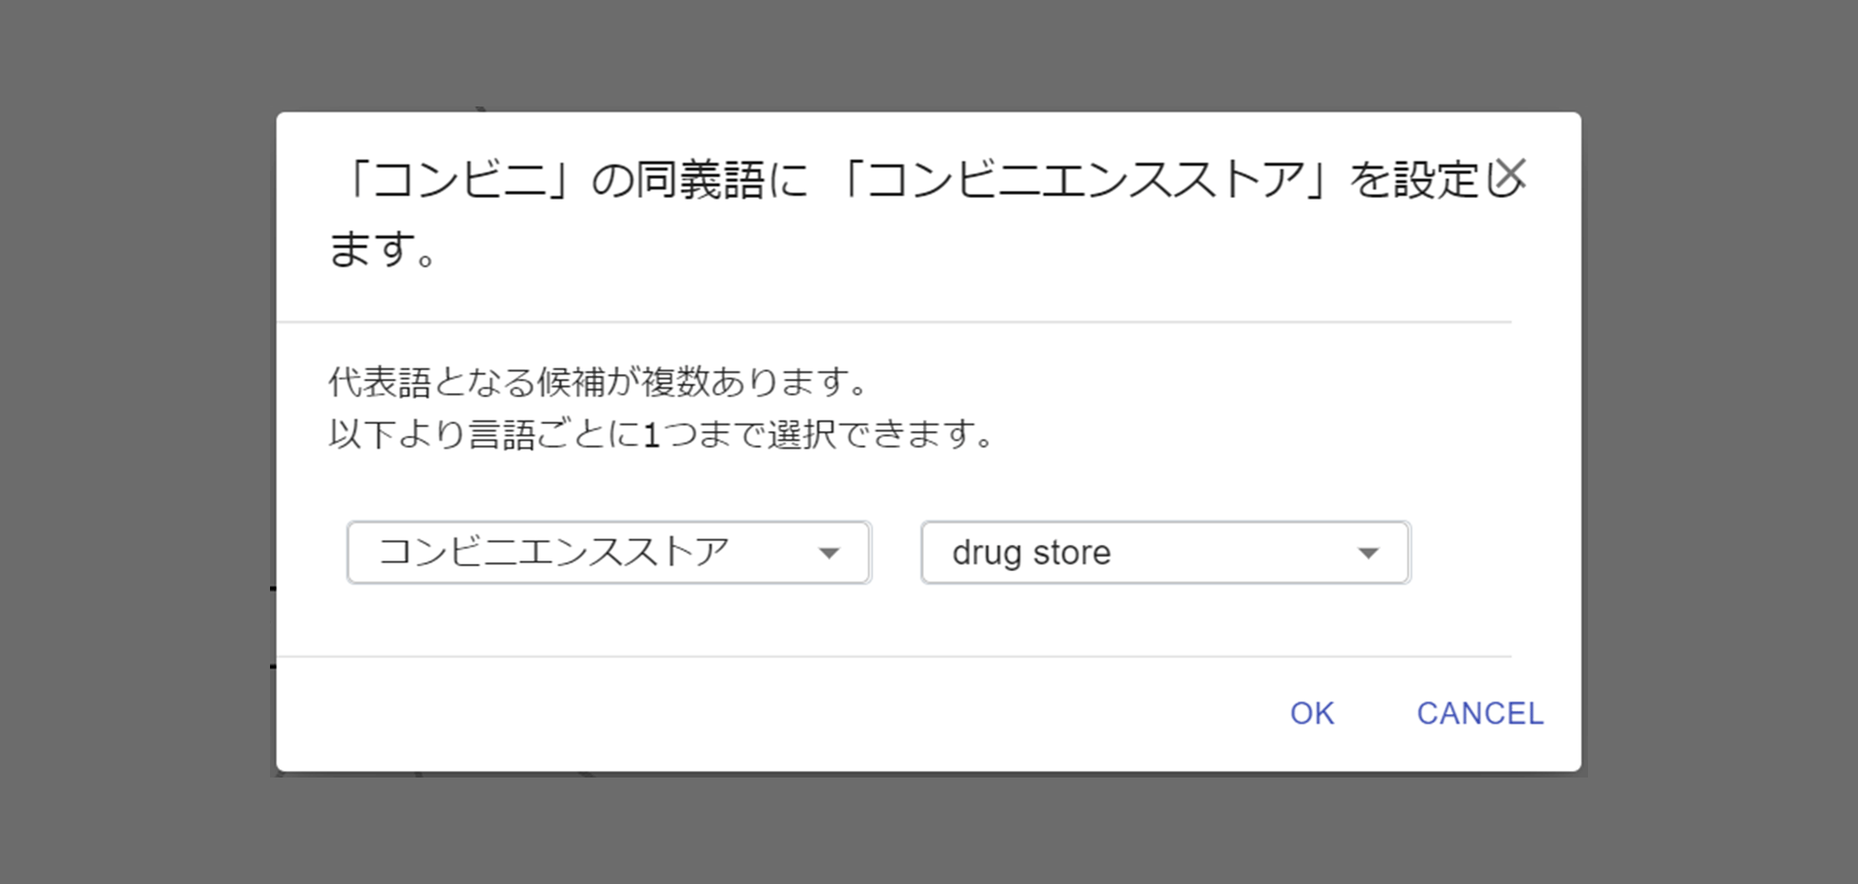
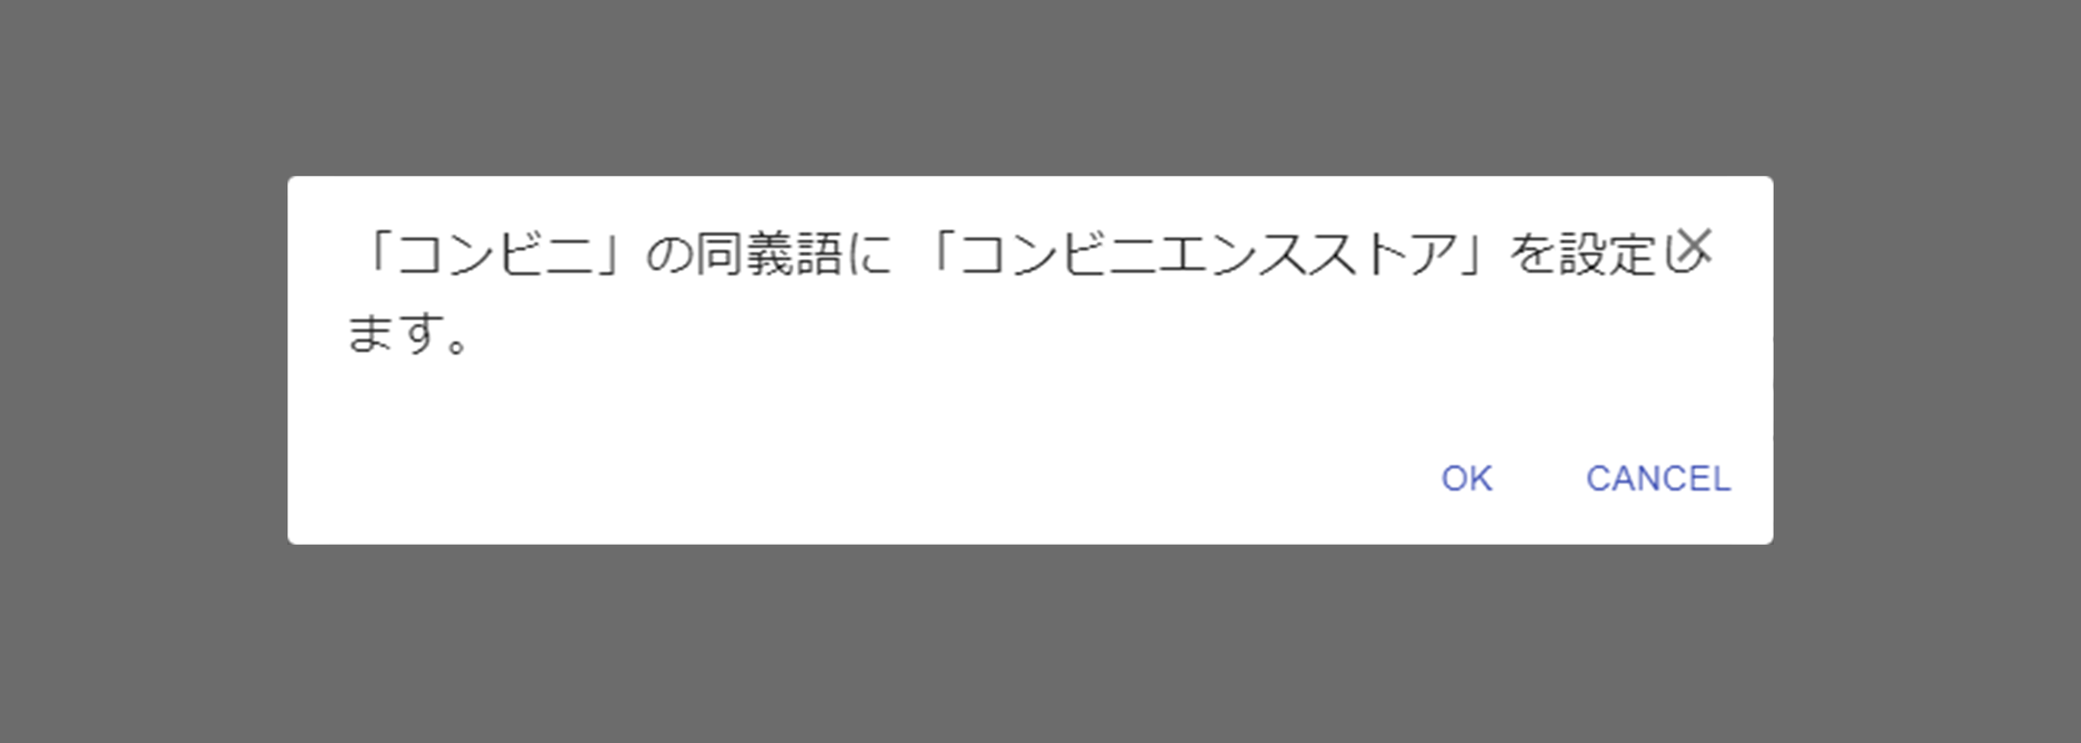
docs update

Changed region(s): [[0.1244, 0.1244, 0.8711, 0.9022], [0.4667, 0.56, 0.84, 0.6844], [0.1867, 0.56, 0.4667, 0.6844]]

diff --git a/docs/help.html b/docs/help.html
@@ -26,7 +26,7 @@
       <dd><a href="#Section08">編集パネル</a></dd>
       <dd><a href="#Section06">関係線を使う</a></dd>
       <dd><a href="#Section11">用語の追加と削除</a></dd>
-      <dd><a href="#Section21">他語彙体系の同義語の追加と削除</a></dd>
+      <dd><a href="#Section21">他語彙体系の同義語のURIの編集</a></dd>
       <dt>いろいろな機能</dt>
       <dd><a href="#Section09">枠線色の変更</a></dd>
       <dd><a href="#Section10">確定について</a></dd>
@@ -39,8 +39,8 @@
     <h1>ファイルの読み込み</h1>
     <p>入力可能なデータは以下の3種類です。</p>
     <ul class="Emp Descr">
-      <li>編集用語彙_meta<br><span class="descr">（csv形式 UTF-8 BOM付き）<br>語彙のメタファイル。</span></li>
       <li>編集用語彙<br><span class="descr">（csv形式 UTF-8 BOM付き）<br>用語の同義関係や上下関係を編集中のデータ。</span></li>
+      <li>編集用語彙_meta<br><span class="descr">（csv形式 UTF-8 BOM付き）<br>語彙のメタファイル。</span></li>
       <li>参照用語彙<br><span class="descr">（csv形式 UTF-8 BOM付き）<br>既存の語彙情報を表形式にまとめたデータ。編集することはできません。<br>参照専用のデータです。3つまでファイルを読み込むことが可能です。</span></li>
     </ul>
     <p id="illst4-1"><span class="Emp">画面の左上のメニュー「ファイル」→「開く」をクリックすると、ファイルの読み込みダイアログが表示されます。</span><img src="images/help_illst4-1.png"></p>
@@ -60,7 +60,7 @@
       <li>CSV（語彙基本情報）<span class="descr">（csv形式 UTF-8 BOM付き）</span></li>
       <li>RDF<span class="descr">（n3, nquads, nt, trix, turtle, xml, jsonld形式）：公開する統制語彙。</span></li>
     </ul>
-    <p>左上の「ファイル」→「保存」→「編集用語彙」「編集用語彙_meta」または「統制語彙」をクリックします。ファイル出力ダイアログが表示されるので、任意のファイル名を入力し、「OK」をクリックすると、ファイルがローカル環境にダウンロードされます。</p>
+    <p>左上の「ファイル」→「保存」→「CSV（用語一覧）」「CSV（語彙基本情報）」または「RDF」をクリックします。ファイル出力ダイアログが表示されるので、任意のファイル名を入力し、「OK」をクリックすると、ファイルがローカル環境にダウンロード・保存されます。</p>
     <div class="Img margin0">
       <figure><img src="images/help_illst5.png"></figure>
     </div>
@@ -68,12 +68,14 @@
 
   <div id="Section07" class="section">
     <h1>用語の選択方法</h1>
-    <p>登録されている用語の選択方法は次の２つです。</p>
+    <p>登録されている用語の選択方法は次のとおりです。</p>
     <ol class="Emp Descr">
       <li>可視化画面で用語をクリックする<br><span class="descr">可視化画面で用語が選択されると枠線が太くなって、強調表示されます。</span></li>
+      <li>検索ボックスをクリックすると表示される一覧から選択する</li>
       <li>検索ボックスで検索する<br><span class="descr">検索ボックスに用語名を入力して検索します。目的の用語が見つかると画面の中央に表示されます。</span></li>
+      <li>編集パネル内のプルダウンから目的の用語を選択する<br><span class="descr">無作為に用語をクリック（選択）して、画面右上の「編集」ボタンを押すと編集パネルが表示されます。開かれた編集パネル内の用語名のプルダウンから目的の用語を選択します。</span></li>
     </ol>
-    <p class="Emp">用語を選択して画面右上の編集ボタンをクリックすると編集パネルが開きます。<br><span class="red">選択中の用語をクリックするか、選択全解除ボタンもしくは可視化画面の背景をクリックすると選択が解除されます。</span></p>
+    <p class="Emp"><span class="red">選択中の用語をクリックするか、選択全解除ボタンを押す、もしくは可視化画面の背景部分をクリックすると選択が解除されます。</span></p>
     <div class="Img margin0">
       <figure><img src="images/help_illst7.png"></figure>
     </div>
@@ -83,50 +85,76 @@
     <h1>編集パネル</h1>
     <p>用語を選択し「編集」ボタンを押すと、編集パネルが開きます。編集パネルでは、同義語・代表語・上位語の編集や、IDを編集して代表語のURIを変更したり、用語の説明を編集することもできます。</p>
     <div id="HensyuPanel" >
+      <div class="Img">
+        <p style="top: 0.5%; left: 82.5%;">1</p>
+        <p style="top: 9.2%; left: 1%;">2</p>
+        <p style="top: 15%; left: 17%;">3</p>
+        <p style="top: 20.5%; left: -1.5%;">4</p>
+        <p style="top: 20.5%; left: 43%;">5</p>
+        <p style="top: 29%; left: -1.5%;">6</p>
+        <p style="top: 37.3%; left: -1.5%;">7</p>
+        <p style="top: 47%; left: -1.5%;">8</p>
+        <p style="top: 54.5%; left: -1.5%;">9</p>
+        <p style="top: 62.5%; left: -1.5%;">10</p>
+        <p style="top: 71.5%; left: -1.5%;">11</p>
+        <p style="top: 82%; left: -1.5%;">12</p>
+        <p style="top: 93%; left: 40%;">13</p>
+        <figure><img src="images/help_illst8.png"></figure>
+      </div>
+
       <dl class="Descr">
         <dt>①クローズボタン</dt>
         <dd class="descr">クリックすると編集パネルを閉じます。</dd>
+      </dl>
+      <dl class="Descr">
         <dt>②選択中の用語表示</dt>
         <dd class="descr">編集中の用語名が表示されます。プルダウンから別の用語を選択すると選択中の用語が変更されます。</dd>
+      </dl>
+      <dl class="Descr">
         <dt>③言語の切り替え</dt>
         <dd class="descr">用語の言語。日本語か英語を設定します（それ以外の言語には未対応）。</dd>
+      </dl>
+      <dl class="Descr">
         <dt>④同義語</dt>
         <dd class="descr">語形や音が異なる、意味が同じ語。複数個の設定が可能です。同義語テキストボックスをクリックすると、AIによる同義語候補が表示されます。この中から用語を選択するか、手入力して同義語を設定できます。</dd>
+      </dl>
+      <dl class="Descr">
         <dt>⑤編集した項目の背景はピンク、既存の項目の背景はブルーで表示されます。</dt>
         <dd class="descr red">手入力では、入力後にEnterキーで入力が決定されます。</dd>
+      </dl>
+      <dl class="Descr">
         <dt>⑥代表語</dt>
         <dd class="descr">選択中の用語と同義語の中から、代表となる用語を、ひとつ設定します。</dd>
+      </dl>
+      <dl class="Descr">
         <dt>⑦ID</dt>
         <dd class="descr">代表語に割り当てられた一意のIDを設定します。</dd>
+      </dl>
+      <dl class="Descr">
         <dt>⑧代表語のURI</dt>
         <dd class="descr">代表語に割り当てられた一意のURIです。IDを編集することで変更されますす。</dd>
+      </dl>
+      <dl class="Descr">
         <dt>⑨上位語</dt>
         <dd class="descr">選択中の用語の意味範囲を包括する語です。ひとつだけ設定が可能です。テキストボックスをクリックすると、AIによる上位語の候補が表示されます。この中から用語を選択するか、手入力して上位語を設定できます。</dd>
+      </dl>
+      <dl class="Descr">
         <dt>⑩下位語</dt>
-        <dd class="descr">選択中の用語の意味範囲を特殊化した語です。この画面では、下位語は編集できません。下位語に相当する用語から上位語を設定することで上位語・下位語関係が変更できます。</dd>
+        <dd class="descr">選択中の用語の意味範囲を特殊化した語です。編集パネルでは下位語は編集できません。下位語に相当する用語から上位語を設定することで上位語・下位語関係が変更できます。</dd>
+      </dl>
+      <dl class="Descr">
         <dt>⑪用語の説明</dt>
         <dd class="descr">用語についての説明です。</dd>
-        <dt>⑫他語彙体系の同義語のURI</dt>
-        <dd class="descr">現在編集中の分野の語彙とは、別の語彙で同義関係である用語のURI。変更できません。</dd>
-        <dt>⑬反映ボタン</dt>
-        <dd class="descr">編集が終わったら最後に反映ボタンをクリックすることで、編集した内容が保存されます。</dd>
       </dl>
-      <div class="Img">
-        <p style="top: 1%; left: 85%;">1</p>
-        <p style="top: 9.5%; left: 1.5%;">2</p>
-        <p style="top: 15%; left: 23%;">3</p>
-        <p style="top: 20%; left: -1%;">4</p>
-        <p style="top: 21.5%; left: 41%;">5</p>
-        <p style="top: 29%; left: -1%;">6</p>
-        <p style="top: 37.5%; left: -1%;">7</p>
-        <p style="top: 48%; left: -1%;">8</p>
-        <p style="top: 55.5%; left: -1%;">9</p>
-        <p style="top: 64.5%; left: -1%;">10</p>
-        <p style="top: 72.5%; left: -1%;">11</p>
-        <p style="top: 82%; left: -1%;">12</p>
-        <p style="top: 93%; left: 36%;">13</p>
-        <figure><img src="images/help_illst8.png"></figure>
-      </div>
+      <dl class="Descr">
+        <dt>⑫他語彙体系の同義語のURI</dt>
+        <dd class="descr">現在編集中の分野の語彙とは別の語彙で、同義関係である用語のURI。編集パネルでは変更できません。（<a href="#Section21">編集方法はこちら</a>）</dd>
+      </dl>
+      <dl class="Descr">
+        <dt>⑬反映ボタン</dt>
+        <dd class="descr">編集が終わった後に反映ボタンをクリックすることで、編集した内容が反映・保存されます。</dd>
+      </dl>
+      
     </div>
   </div>
 
@@ -152,26 +180,25 @@
 
   <div id="Section11" class="section">
     <h1>用語の追加と削除</h1>
-    <p class="Emp">CVDを使用して、新規に用語を追加したり登録済みの用語を削除することはできません。</p>
-    <p>用語を追加または削除する場合は、編集中の語彙をCSVファイルに書き出して、CSVファイルを編集してください。</p>
+    <p class="Emp">CVDで新規に用語を追加したり、登録済みの用語を削除することはできません。</p>
+    <p>用語を追加または削除する場合は、編集中の語彙をCSVファイルに書き出して編集した後、CVDに読み込みます。</p>
     <h2>用語の追加・削除の手順</h2>
     <ol class="Emp Descr">
-      <li id="process1">編集中の語彙を編集用語彙ファイル（CSVファイル）に書き出します。<br><span class="descr">編集用語彙ファイルを書き出す手順は、このヘルプの<a href="#Section05">ファイルの書き出し</a>を参照してください。</span><img src="images/help_illst9-1.png"></li>
-      <li id="process2">書き出された編集用語彙ファイルを編集します。<br><span class="descr">書き出されたCSVファイルで、用語を追加する場合は<em>行を追加</em>します。<br>（削除する場合は削除したい<em>用語の行を削除</em>します）<br>用語を最小限の入力で追加するには、「用語名」列・「代表語」列・「代表語のURI」列を設定すれば追加することができます。（「用語名」列以外はCVDで変更が可能です）</span><img src="images/help_illst9-2.png"></li>
-      <li id="process3">編集した編集用語彙ファイルをCVDに読み込みます。<br><span class="descr">ファイルの読み込み手順は、このヘルプの<a href="#Section04">ファイルの読み込み</a>を参照してください。</span></li>
+      <li id="process1">編集中の語彙をファイルメニューの保存からCSV（用語一覧）で書き出します。<br><span class="descr">書き出す手順は、このヘルプの<a href="#Section05">ファイルの書き出し</a>を参照してください。</span><img src="images/help_illst9-1.png"></li>
+      <li id="process2">書き出されたCSVファイルを編集します。<br><span class="descr">書き出されたCSVファイルで、用語を追加する場合は<em>新たに行を追加</em>します。（削除する場合は削除したい<em>用語の行を削除</em>します）<br>用語を最小限の入力で追加するには、「用語名」列・「代表語」列・「代表語のURI」列を設定すれば追加することができます。（「用語名」列以外はCVDで編集が可能です）</span><img src="images/help_illst9-2.png"></li>
+      <li id="process3">編集したCSVファイルを編集用語彙としてCVDに読み込みます。<br><span class="descr">ファイルの読み込み手順は、このヘルプの<a href="#Section04">ファイルの読み込み</a>を参照してください。</span></li>
     </ol>
   </div>
 
   <div id="Section21" class="section">
-    <h1>他語彙体系の同義語の追加と削除</h1>
-    <p class="Emp">CVDを使用して、新規に他語彙体系の同義語のURIを用語に追加したり削除したりすることはできません。</p>
-    <p>他語彙体系の同義語を用語に追加または削除する場合は、編集中の語彙をCSVファイルに書き出して、CSVファイルを編集してください。</p>
-    <h2>他語彙体系の同義語のURIの追加・削除の手順</h2>
+    <h1>他語彙体系の同義語のURIの編集・追加・削除</h1>
+    <p class="Emp">CVDを使用して、他語彙体系の同義語のURIを編集・追加・削除することはできません。</p>
+    <p>他語彙体系の同義語のURIを編集・追加・削除するには、編集中の語彙をCSVファイルに書き出して編集し、CVDに読み込みます。</p>
+    <h2>他語彙体系の同義語のURIの編集・追加・削除の手順</h2>
     <ol class="Emp Descr">
-      <li id="process1">編集中の語彙を編集用語彙ファイル（CSVファイル）に書き出します。<br><span class="descr">編集用語彙ファイルを書き出す手順は、このヘルプの<a href="#Section05">ファイルの書き出し</a>を参照してください。</span><img src="images/help_illst9-1-2.png"></li>
-      <li id="process2">書き出された編集用語彙ファイルを編集します。<br>
-        <span class="descr">書き出されたCSVファイルで、用語に他語彙体系の同義語を追加する場合は「他語彙体系の同義語のURI」列に、その同義語のURIを入力します。</span><img src="images/help_illst9-2-2.png"></li>
-      <li id="process3">編集した編集用語彙ファイルをCVDに読み込みます。<br><span class="descr">ファイルの読み込み手順は、このヘルプの<a href="#Section04">ファイルの読み込み</a>を参照してください。</span></li>
+      <li id="process1">編集中の語彙をファイルメニューの保存からCSV（用語一覧）で書き出します。<br><span class="descr">書き出す手順は、このヘルプの<a href="#Section05">ファイルの書き出し</a>を参照してください。</span><img src="images/help_illst9-1-2.png"></li>
+      <li id="process2">書き出されたCSVファイルを編集します。<br><span class="descr">書き出されたCSVファイルで、他語彙体系の同義語のURIを追加する場合は「他語彙体系の同義語のURI」列に、その同義語のURIを入力します。</span><img src="images/help_illst9-2-2.png"></li>
+      <li id="process3">編集したCSVファイルを編集用語彙としてCVDに読み込みます。<br><span class="descr">ファイルの読み込み手順は、このヘルプの<a href="#Section04">ファイルの読み込み</a>を参照してください。</span></li>
     </ol>
   </div>
 

diff --git a/docs/getting-started.html b/docs/getting-started.html
@@ -153,10 +153,10 @@
         <p>”コンビニ”の同義語として”コンビニエンスストア”を設定してみましょう。<br>”コンビニ”にポインタを合わせて表示された3つのポイントのうち、左右のポイントのいづれかの上でマウスボタンを押し下げたままドラッグすると、同義関係線を引き出すことができます。</p>
         <p><img id="Img15" src="images/getting_start15.png"></p>
         <h3>2</h3>
-        <p>同義関係線をドラッグして引っ張りながら”コンビニエンスストア”の上でマウスボタンをはなすと、次のようなダイアログが表示されます。プルダウンから代表語（同義語を代表する用語）となる用語を選択してください。</p>
+        <p>同義関係線をドラッグして引っ張りながら”コンビニエンスストア”の上でマウスボタンをはなすと、次のようなダイアログが表示されます。</p>
         <p><img src="images/getting_start16.png"></p>
         <h3>3</h3>
-        <p>ここでは、代表語として”コンビニエンスストア”を選択します。すると、次のように、”コンビニ”と”コンビニエンスストア”がグレーの線で結ばれました。このグレーの線が同義関係線です。</p>
+        <p>次のように、”コンビニ”と”コンビニエンスストア”がグレーの線で結ばれました。このグレーの線が同義関係線です。</p>
         <p><img src="images/getting_start17.png"></p>
         <p><br></p>
         <h3>1</h3>
@@ -181,7 +181,7 @@
         <p>同義語・代表語・上位語は、この編集パネルでも編集できます。同義語テキストボックスをクリックすると、AIによる同義語候補結果が表示されます。この中から同義語であると考えられる用語を選択するか、手入力することで同義語を設定できます。上位語についても同様です。</p>
         <p><img id="Img23" src="images/getting_start23.png"></p>
         <h3>4</h3>
-        <p>編集パネルでは、IDを編集することで代表語のURIを変更したり、用語の説明を編集することもできます。<br>ここでは、用語の説明を編集してみます。用語の説明テキストボックスに、”コンビニエンスストアに関する補足情報です”と入力し、キーボードのEnterを押します。すると、下図のように背景が赤い状態になります。この状態ではまだデータとして保存されていません。編集が終わったら最後に一番下の「反映」ボタンをクリックすると、編集した内容が保存され編集パネルが閉じます。</p>
+        <p>編集パネルでは、IDを編集することで代表語のURIを変更したり、用語の説明を編集することもできます。<br>ここでは、用語の説明を編集してみます。用語の説明テキストボックスに、”コンビニエンスストアに関する補足情報です”と入力ます。入力が終わったら一番下の「反映」ボタンをクリックすると、編集した内容が保存され編集パネルが閉じます。</p>
         <p><img id="Img24" src="images/getting_start24.png"></p>
         <h3>5</h3>
         <p>用語の説明は同義語すべてに同じ値が入ります。<br>”コンビニエンスストア”を選択したままの状態から編集パネルを開き、編集パネル上部のプルダウンから”コンビニ”を選択して”コンビニ”に切り替えます。用語の説明テキストボックスを確認すると、先ほど入力した”コンビニエンスストアに関する補足情報です”が表示されています。</p>
@@ -198,7 +198,7 @@
           <li>RDF</li>
         </ul>
         <p>いずれも同様の手順で書き出すことができます。（RDFの書き出しでは、ファイルフォーマットを選択できます。）</p>
-        <p>以下はCSV（用語一覧）を例にした書き出し方法です。<br>CVD画面左上の「ファイル」→「保存」→「編集用語彙」の順にクリックします。<br>下図のダイアログが表示され、任意のファイル名を入力して「OK」をクリックすると、ファイルがダウンロードされます。</p>
+        <p>以下はCSV（用語一覧）を例にした書き出し方法です。<br>CVD画面左上の「ファイル」→「保存」→「CSV（用語一覧）」の順にクリックします。<br>下図のダイアログが表示され、任意のファイル名を入力して「OK」をクリックすると、ファイルが保存・ダウンロードされます。</p>
         <p><img src="images/getting_start26.png"></p>
       </div>
 

diff --git a/docs/css/help_style.css b/docs/css/help_style.css
@@ -187,7 +187,7 @@ nav dd#Title {
     margin-top: 0;
     margin-bottom: 0;
     float: left;
-    width: 40%;
+    width: 44%;
     min-width: 350px;
 }
 #Section04 p#illst4-1 + p {
@@ -237,7 +237,7 @@ nav dd#Title {
     text-indent: -1.3em;
     width: 45%;
     float: left;
-    margin: 0;
+    margin: 0 4% 0 0;
 }
 #Section08 #HensyuPanel dd.descr {
     font-size: 0.95em;
@@ -252,7 +252,7 @@ nav dd#Title {
     vertical-align: middle;
 }
 #Section08 #HensyuPanel .Img{
-    margin: 3em 0;
+    margin: 0 0 2em;
     width: 48%;
     float: right;
 }
@@ -269,6 +269,11 @@ nav dd#Title {
     border: 2px solid #FF0000;
     border-radius: 50%;
     background-color: rgba(255, 255, 255, 0.5);
+}
+#Section08 dl a {
+    margin-right: 0.3em;
+    margin-left: 0.3em;
+    border-bottom: solid 1px #3B69D9;
 }
 
 #Section06 .Img p#Text01 {
@@ -323,7 +328,7 @@ nav dd#Title {
 #Section06 .Img #Text03 {right: 0%;}
 
 #Section09 ol {
-    font-size: 1.25rem;
+    font-size: 1.15rem;
 }
 
 #Section11 h2 {
@@ -363,7 +368,7 @@ nav dd#Title {
 #Section21 #process1 img {
     width: 35%;
     float: right;
-    margin-top: -75px;
+    margin-top: -90px;
     margin-right: -30%;
 }
 #Section21 #process2 {margin-top: 2em;}
